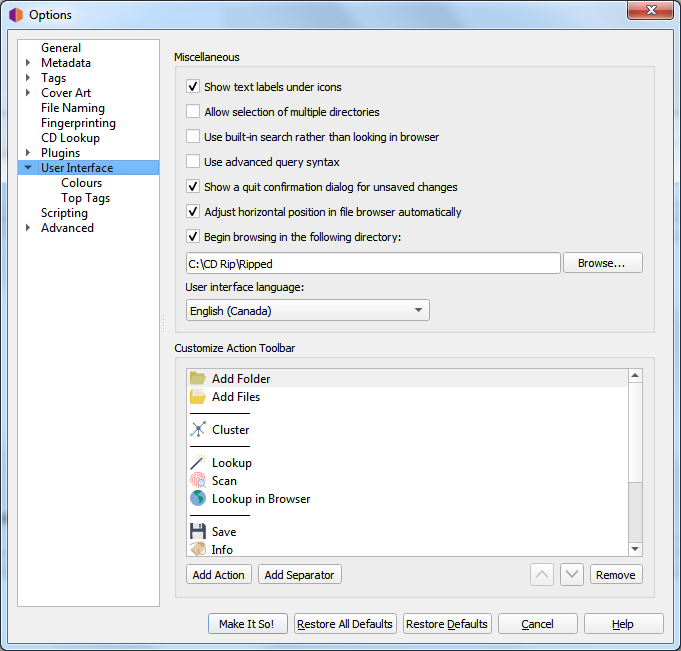
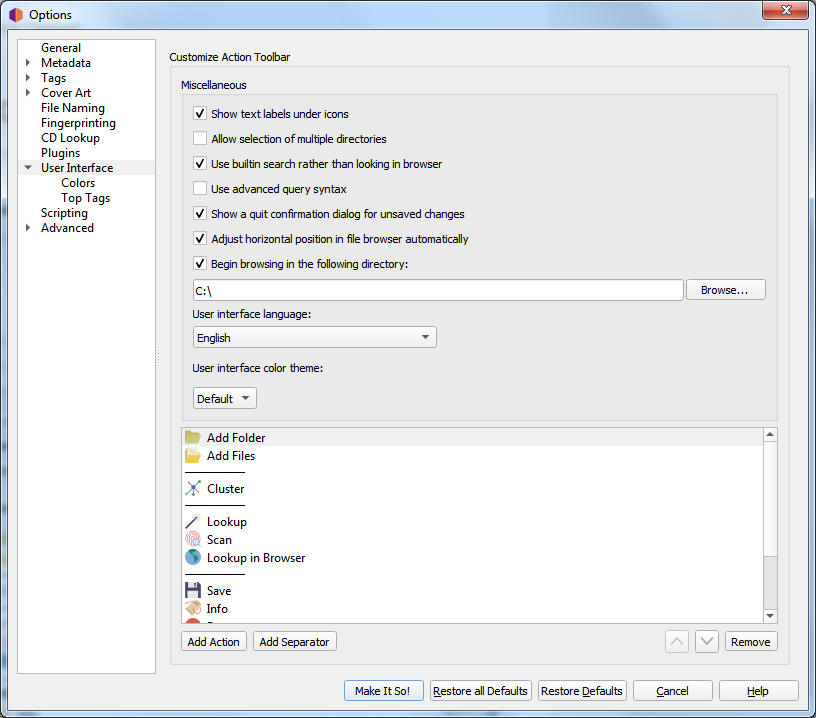
Document new interface option to select light or dark theme

Changed region(s): [[0.0, 0.0, 1.0, 1.0], [0.8018, 0.3687, 0.9559, 0.4301], [0.4934, 0.4608, 0.5242, 0.4916]]

diff --git a/config/options_interface.rst b/config/options_interface.rst
@@ -11,20 +11,6 @@
     If this option is disabled, the text labels under the icons in the toolbar will not be displayed,
     causing the toolbar to appear a little smaller.
 
-**Use system theme**
-
-    By default Picard uses the Qt Fusion theme for the user interface. If you enable this option
-    Picard will instead use the default Qt theme configured on your system. How to change the Qt
-    theme depends on your desktop environment.
-
-    .. note::
-        This option is not available on Windows and macOS.
-
-    .. warning::
-
-        Please be aware that using the system theme might cause the user interface to be not shown correctly.
-        If this is the case disable the "Use system theme" option to use Picard's default theme again.
-
 **Allow selection of multiple directories**
 
     Enabling this option will bypass the native directory selector and use Qt's file dialog.  This
@@ -57,6 +43,24 @@
 
     By default, Picard will display in the language displayed by your operating system, however you can
     override this and select a different language if needed.
+
+**User interface color theme**
+
+    This option allows the user to select the color theme used by Picard. On macOS and Windows systems, the available choices are:
+
+    * Default - The default color scheme based on the operating system display settings.
+    * Light - A light display theme.
+    * Dark - A dark display theme.
+
+    On Linux and similar operating systems, the available choices are:
+
+    * Default - The default color scheme based on the operating system display settings.
+    * System - The Qt5 theme configured in the desktop environment.
+
+    .. note::
+
+        If anything other than "Default" is selected, then the colors assigned in the :doc:`options_interface_colors` section
+        will not be applied.
 
 **Customize action toolbar**
 
